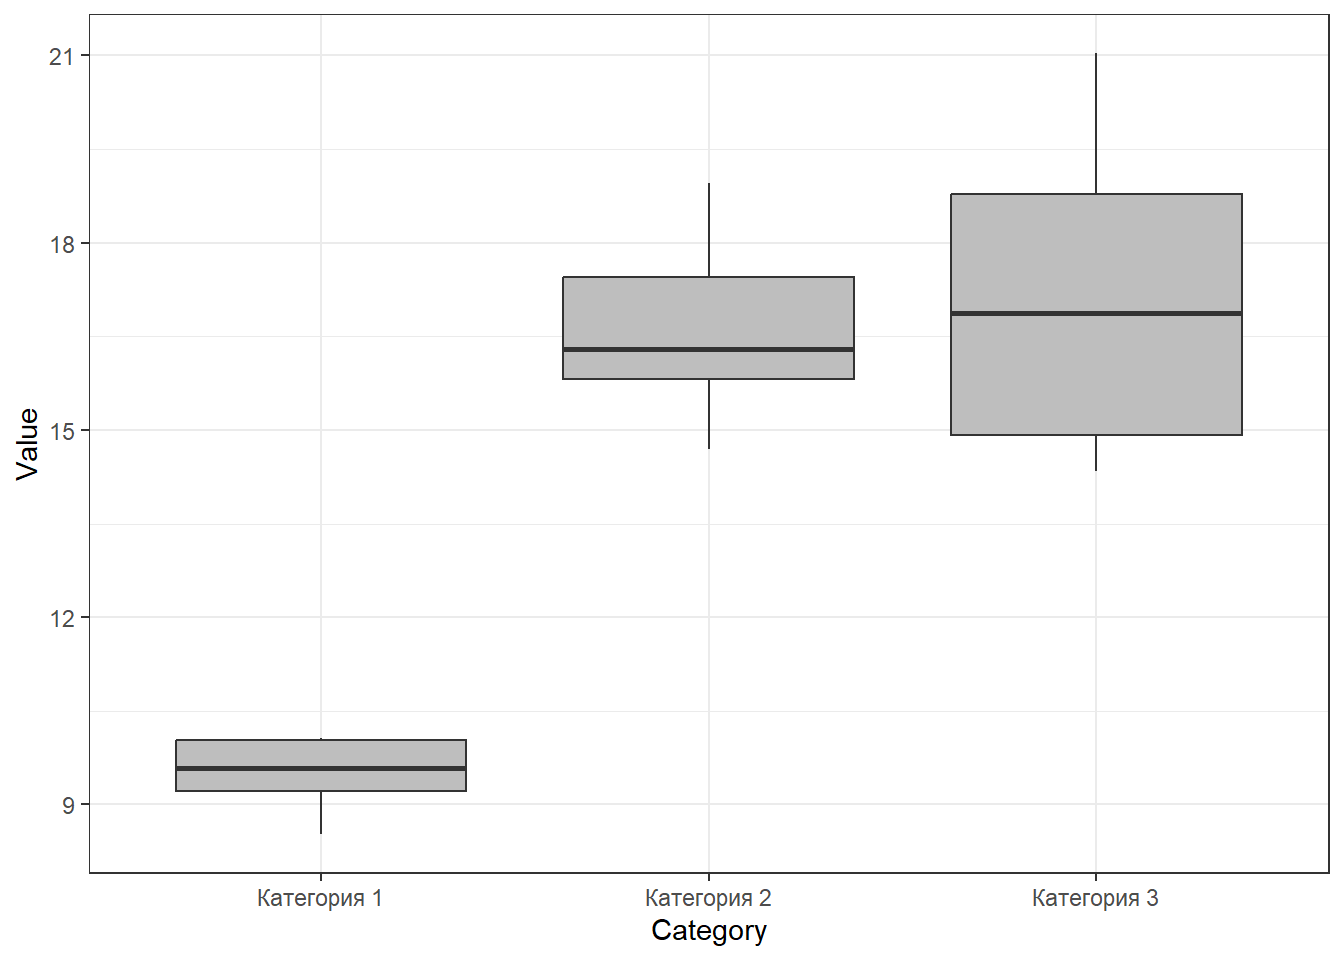
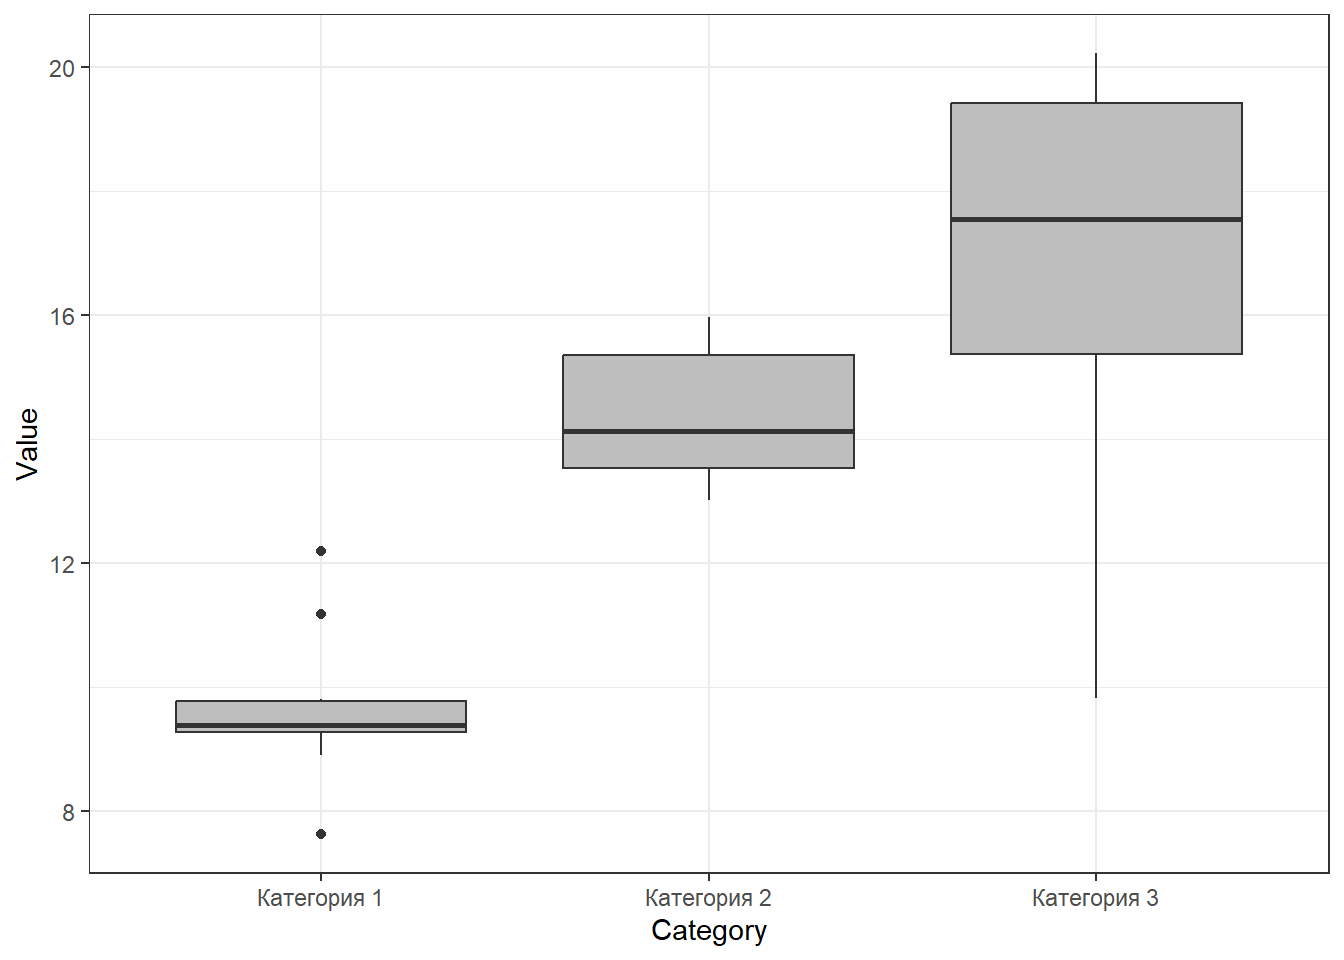
Открыл результаты ДЗ_3

diff --git a/lectures.html b/lectures.html
@@ -564,7 +564,7 @@ virginica.</p>
 набить в экселе.</p>
 <p>Для примера, решение аналогичного задания, для вида “setosa” по
 переменной <code>iris$Sepal.Width</code> будет выглядеть вот так.</p>
-<div class="tabwid"><style>.cl-8600827a{}.cl-85869b18{font-family:'Arial';font-size:11pt;font-weight:normal;font-style:normal;text-decoration:none;color:rgba(0, 0, 0, 1.00);background-color:transparent;}.cl-85b92150{margin:0;text-align:left;border-bottom: 0 solid rgba(0, 0, 0, 1.00);border-top: 0 solid rgba(0, 0, 0, 1.00);border-left: 0 solid rgba(0, 0, 0, 1.00);border-right: 0 solid rgba(0, 0, 0, 1.00);padding-bottom:5pt;padding-top:5pt;padding-left:5pt;padding-right:5pt;line-height: 1;background-color:transparent;}.cl-85b92164{margin:0;text-align:right;border-bottom: 0 solid rgba(0, 0, 0, 1.00);border-top: 0 solid rgba(0, 0, 0, 1.00);border-left: 0 solid rgba(0, 0, 0, 1.00);border-right: 0 solid rgba(0, 0, 0, 1.00);padding-bottom:5pt;padding-top:5pt;padding-left:5pt;padding-right:5pt;line-height: 1;background-color:transparent;}.cl-85baf58e{width:0.75in;background-color:transparent;vertical-align: middle;border-bottom: 1.5pt solid rgba(102, 102, 102, 1.00);border-top: 1.5pt solid rgba(102, 102, 102, 1.00);border-left: 0 solid rgba(0, 0, 0, 1.00);border-right: 0 solid rgba(0, 0, 0, 1.00);margin-bottom:0;margin-top:0;margin-left:0;margin-right:0;}.cl-85baf5a2{width:0.75in;background-color:transparent;vertical-align: middle;border-bottom: 1.5pt solid rgba(102, 102, 102, 1.00);border-top: 1.5pt solid rgba(102, 102, 102, 1.00);border-left: 0 solid rgba(0, 0, 0, 1.00);border-right: 0 solid rgba(0, 0, 0, 1.00);margin-bottom:0;margin-top:0;margin-left:0;margin-right:0;}.cl-85baf5ac{width:0.75in;background-color:transparent;vertical-align: middle;border-bottom: 0 solid rgba(0, 0, 0, 1.00);border-top: 0 solid rgba(0, 0, 0, 1.00);border-left: 0 solid rgba(0, 0, 0, 1.00);border-right: 0 solid rgba(0, 0, 0, 1.00);margin-bottom:0;margin-top:0;margin-left:0;margin-right:0;}.cl-85baf5b6{width:0.75in;background-color:transparent;vertical-align: middle;border-bottom: 0 solid rgba(0, 0, 0, 1.00);border-top: 0 solid rgba(0, 0, 0, 1.00);border-left: 0 solid rgba(0, 0, 0, 1.00);border-right: 0 solid rgba(0, 0, 0, 1.00);margin-bottom:0;margin-top:0;margin-left:0;margin-right:0;}.cl-85baf5c0{width:0.75in;background-color:transparent;vertical-align: middle;border-bottom: 1.5pt solid rgba(102, 102, 102, 1.00);border-top: 0 solid rgba(0, 0, 0, 1.00);border-left: 0 solid rgba(0, 0, 0, 1.00);border-right: 0 solid rgba(0, 0, 0, 1.00);margin-bottom:0;margin-top:0;margin-left:0;margin-right:0;}.cl-85baf5c1{width:0.75in;background-color:transparent;vertical-align: middle;border-bottom: 1.5pt solid rgba(102, 102, 102, 1.00);border-top: 0 solid rgba(0, 0, 0, 1.00);border-left: 0 solid rgba(0, 0, 0, 1.00);border-right: 0 solid rgba(0, 0, 0, 1.00);margin-bottom:0;margin-top:0;margin-left:0;margin-right:0;}</style><table data-quarto-disable-processing='true' class='cl-8600827a'><thead><tr style="overflow-wrap:break-word;"><th class="cl-85baf58e"><p class="cl-85b92150"><span class="cl-85869b18">Sepal.Width</span></p></th><th class="cl-85baf5a2"><p class="cl-85b92164"><span class="cl-85869b18">Frequency</span></p></th></tr></thead><tbody><tr style="overflow-wrap:break-word;"><td class="cl-85baf5ac"><p class="cl-85b92150"><span class="cl-85869b18">2.3</span></p></td><td class="cl-85baf5b6"><p class="cl-85b92164"><span class="cl-85869b18">1</span></p></td></tr><tr style="overflow-wrap:break-word;"><td class="cl-85baf5ac"><p class="cl-85b92150"><span class="cl-85869b18">2.9</span></p></td><td class="cl-85baf5b6"><p class="cl-85b92164"><span class="cl-85869b18">1</span></p></td></tr><tr style="overflow-wrap:break-word;"><td class="cl-85baf5ac"><p class="cl-85b92150"><span class="cl-85869b18">3</span></p></td><td class="cl-85baf5b6"><p class="cl-85b92164"><span class="cl-85869b18">6</span></p></td></tr><tr style="overflow-wrap:break-word;"><td class="cl-85baf5ac"><p class="cl-85b92150"><span class="cl-85869b18">3.1</span></p></td><td class="cl-85baf5b6"><p class="cl-85b92164"><span class="cl-85869b18">4</span></p></td></tr><tr style="overflow-wrap:break-word;"><td class="cl-85baf5ac"><p class="cl-85b92150"><span class="cl-85869b18">3.2</span></p></td><td class="cl-85baf5b6"><p class="cl-85b92164"><span class="cl-85869b18">5</span></p></td></tr><tr style="overflow-wrap:break-word;"><td class="cl-85baf5ac"><p class="cl-85b92150"><span class="cl-85869b18">3.3</span></p></td><td class="cl-85baf5b6"><p class="cl-85b92164"><span class="cl-85869b18">2</span></p></td></tr><tr style="overflow-wrap:break-word;"><td class="cl-85baf5ac"><p class="cl-85b92150"><span class="cl-85869b18">3.4</span></p></td><td class="cl-85baf5b6"><p class="cl-85b92164"><span class="cl-85869b18">9</span></p></td></tr><tr style="overflow-wrap:break-word;"><td class="cl-85baf5ac"><p class="cl-85b92150"><span class="cl-85869b18">3.5</span></p></td><td class="cl-85baf5b6"><p class="cl-85b92164"><span class="cl-85869b18">6</span></p></td></tr><tr style="overflow-wrap:break-word;"><td class="cl-85baf5ac"><p class="cl-85b92150"><span class="cl-85869b18">3.6</span></p></td><td class="cl-85baf5b6"><p class="cl-85b92164"><span class="cl-85869b18">3</span></p></td></tr><tr style="overflow-wrap:break-word;"><td class="cl-85baf5ac"><p class="cl-85b92150"><span class="cl-85869b18">3.7</span></p></td><td class="cl-85baf5b6"><p class="cl-85b92164"><span class="cl-85869b18">3</span></p></td></tr><tr style="overflow-wrap:break-word;"><td class="cl-85baf5ac"><p class="cl-85b92150"><span class="cl-85869b18">3.8</span></p></td><td class="cl-85baf5b6"><p class="cl-85b92164"><span class="cl-85869b18">4</span></p></td></tr><tr style="overflow-wrap:break-word;"><td class="cl-85baf5ac"><p class="cl-85b92150"><span class="cl-85869b18">3.9</span></p></td><td class="cl-85baf5b6"><p class="cl-85b92164"><span class="cl-85869b18">2</span></p></td></tr><tr style="overflow-wrap:break-word;"><td class="cl-85baf5ac"><p class="cl-85b92150"><span class="cl-85869b18">4</span></p></td><td class="cl-85baf5b6"><p class="cl-85b92164"><span class="cl-85869b18">1</span></p></td></tr><tr style="overflow-wrap:break-word;"><td class="cl-85baf5ac"><p class="cl-85b92150"><span class="cl-85869b18">4.1</span></p></td><td class="cl-85baf5b6"><p class="cl-85b92164"><span class="cl-85869b18">1</span></p></td></tr><tr style="overflow-wrap:break-word;"><td class="cl-85baf5ac"><p class="cl-85b92150"><span class="cl-85869b18">4.2</span></p></td><td class="cl-85baf5b6"><p class="cl-85b92164"><span class="cl-85869b18">1</span></p></td></tr><tr style="overflow-wrap:break-word;"><td class="cl-85baf5c0"><p class="cl-85b92150"><span class="cl-85869b18">4.4</span></p></td><td class="cl-85baf5c1"><p class="cl-85b92164"><span class="cl-85869b18">1</span></p></td></tr></tbody></table></div>
+<div class="tabwid"><style>.cl-00813df2{}.cl-0050aa3e{font-family:'Arial';font-size:11pt;font-weight:normal;font-style:normal;text-decoration:none;color:rgba(0, 0, 0, 1.00);background-color:transparent;}.cl-005b628a{margin:0;text-align:left;border-bottom: 0 solid rgba(0, 0, 0, 1.00);border-top: 0 solid rgba(0, 0, 0, 1.00);border-left: 0 solid rgba(0, 0, 0, 1.00);border-right: 0 solid rgba(0, 0, 0, 1.00);padding-bottom:5pt;padding-top:5pt;padding-left:5pt;padding-right:5pt;line-height: 1;background-color:transparent;}.cl-005b62bc{margin:0;text-align:right;border-bottom: 0 solid rgba(0, 0, 0, 1.00);border-top: 0 solid rgba(0, 0, 0, 1.00);border-left: 0 solid rgba(0, 0, 0, 1.00);border-right: 0 solid rgba(0, 0, 0, 1.00);padding-bottom:5pt;padding-top:5pt;padding-left:5pt;padding-right:5pt;line-height: 1;background-color:transparent;}.cl-005c0cd0{width:0.75in;background-color:transparent;vertical-align: middle;border-bottom: 1.5pt solid rgba(102, 102, 102, 1.00);border-top: 1.5pt solid rgba(102, 102, 102, 1.00);border-left: 0 solid rgba(0, 0, 0, 1.00);border-right: 0 solid rgba(0, 0, 0, 1.00);margin-bottom:0;margin-top:0;margin-left:0;margin-right:0;}.cl-005c0ce4{width:0.75in;background-color:transparent;vertical-align: middle;border-bottom: 1.5pt solid rgba(102, 102, 102, 1.00);border-top: 1.5pt solid rgba(102, 102, 102, 1.00);border-left: 0 solid rgba(0, 0, 0, 1.00);border-right: 0 solid rgba(0, 0, 0, 1.00);margin-bottom:0;margin-top:0;margin-left:0;margin-right:0;}.cl-005c0ce5{width:0.75in;background-color:transparent;vertical-align: middle;border-bottom: 0 solid rgba(0, 0, 0, 1.00);border-top: 0 solid rgba(0, 0, 0, 1.00);border-left: 0 solid rgba(0, 0, 0, 1.00);border-right: 0 solid rgba(0, 0, 0, 1.00);margin-bottom:0;margin-top:0;margin-left:0;margin-right:0;}.cl-005c0cee{width:0.75in;background-color:transparent;vertical-align: middle;border-bottom: 0 solid rgba(0, 0, 0, 1.00);border-top: 0 solid rgba(0, 0, 0, 1.00);border-left: 0 solid rgba(0, 0, 0, 1.00);border-right: 0 solid rgba(0, 0, 0, 1.00);margin-bottom:0;margin-top:0;margin-left:0;margin-right:0;}.cl-005c0cf8{width:0.75in;background-color:transparent;vertical-align: middle;border-bottom: 1.5pt solid rgba(102, 102, 102, 1.00);border-top: 0 solid rgba(0, 0, 0, 1.00);border-left: 0 solid rgba(0, 0, 0, 1.00);border-right: 0 solid rgba(0, 0, 0, 1.00);margin-bottom:0;margin-top:0;margin-left:0;margin-right:0;}.cl-005c0cf9{width:0.75in;background-color:transparent;vertical-align: middle;border-bottom: 1.5pt solid rgba(102, 102, 102, 1.00);border-top: 0 solid rgba(0, 0, 0, 1.00);border-left: 0 solid rgba(0, 0, 0, 1.00);border-right: 0 solid rgba(0, 0, 0, 1.00);margin-bottom:0;margin-top:0;margin-left:0;margin-right:0;}</style><table data-quarto-disable-processing='true' class='cl-00813df2'><thead><tr style="overflow-wrap:break-word;"><th class="cl-005c0cd0"><p class="cl-005b628a"><span class="cl-0050aa3e">Sepal.Width</span></p></th><th class="cl-005c0ce4"><p class="cl-005b62bc"><span class="cl-0050aa3e">Frequency</span></p></th></tr></thead><tbody><tr style="overflow-wrap:break-word;"><td class="cl-005c0ce5"><p class="cl-005b628a"><span class="cl-0050aa3e">2.3</span></p></td><td class="cl-005c0cee"><p class="cl-005b62bc"><span class="cl-0050aa3e">1</span></p></td></tr><tr style="overflow-wrap:break-word;"><td class="cl-005c0ce5"><p class="cl-005b628a"><span class="cl-0050aa3e">2.9</span></p></td><td class="cl-005c0cee"><p class="cl-005b62bc"><span class="cl-0050aa3e">1</span></p></td></tr><tr style="overflow-wrap:break-word;"><td class="cl-005c0ce5"><p class="cl-005b628a"><span class="cl-0050aa3e">3</span></p></td><td class="cl-005c0cee"><p class="cl-005b62bc"><span class="cl-0050aa3e">6</span></p></td></tr><tr style="overflow-wrap:break-word;"><td class="cl-005c0ce5"><p class="cl-005b628a"><span class="cl-0050aa3e">3.1</span></p></td><td class="cl-005c0cee"><p class="cl-005b62bc"><span class="cl-0050aa3e">4</span></p></td></tr><tr style="overflow-wrap:break-word;"><td class="cl-005c0ce5"><p class="cl-005b628a"><span class="cl-0050aa3e">3.2</span></p></td><td class="cl-005c0cee"><p class="cl-005b62bc"><span class="cl-0050aa3e">5</span></p></td></tr><tr style="overflow-wrap:break-word;"><td class="cl-005c0ce5"><p class="cl-005b628a"><span class="cl-0050aa3e">3.3</span></p></td><td class="cl-005c0cee"><p class="cl-005b62bc"><span class="cl-0050aa3e">2</span></p></td></tr><tr style="overflow-wrap:break-word;"><td class="cl-005c0ce5"><p class="cl-005b628a"><span class="cl-0050aa3e">3.4</span></p></td><td class="cl-005c0cee"><p class="cl-005b62bc"><span class="cl-0050aa3e">9</span></p></td></tr><tr style="overflow-wrap:break-word;"><td class="cl-005c0ce5"><p class="cl-005b628a"><span class="cl-0050aa3e">3.5</span></p></td><td class="cl-005c0cee"><p class="cl-005b62bc"><span class="cl-0050aa3e">6</span></p></td></tr><tr style="overflow-wrap:break-word;"><td class="cl-005c0ce5"><p class="cl-005b628a"><span class="cl-0050aa3e">3.6</span></p></td><td class="cl-005c0cee"><p class="cl-005b62bc"><span class="cl-0050aa3e">3</span></p></td></tr><tr style="overflow-wrap:break-word;"><td class="cl-005c0ce5"><p class="cl-005b628a"><span class="cl-0050aa3e">3.7</span></p></td><td class="cl-005c0cee"><p class="cl-005b62bc"><span class="cl-0050aa3e">3</span></p></td></tr><tr style="overflow-wrap:break-word;"><td class="cl-005c0ce5"><p class="cl-005b628a"><span class="cl-0050aa3e">3.8</span></p></td><td class="cl-005c0cee"><p class="cl-005b62bc"><span class="cl-0050aa3e">4</span></p></td></tr><tr style="overflow-wrap:break-word;"><td class="cl-005c0ce5"><p class="cl-005b628a"><span class="cl-0050aa3e">3.9</span></p></td><td class="cl-005c0cee"><p class="cl-005b62bc"><span class="cl-0050aa3e">2</span></p></td></tr><tr style="overflow-wrap:break-word;"><td class="cl-005c0ce5"><p class="cl-005b628a"><span class="cl-0050aa3e">4</span></p></td><td class="cl-005c0cee"><p class="cl-005b62bc"><span class="cl-0050aa3e">1</span></p></td></tr><tr style="overflow-wrap:break-word;"><td class="cl-005c0ce5"><p class="cl-005b628a"><span class="cl-0050aa3e">4.1</span></p></td><td class="cl-005c0cee"><p class="cl-005b62bc"><span class="cl-0050aa3e">1</span></p></td></tr><tr style="overflow-wrap:break-word;"><td class="cl-005c0ce5"><p class="cl-005b628a"><span class="cl-0050aa3e">4.2</span></p></td><td class="cl-005c0cee"><p class="cl-005b62bc"><span class="cl-0050aa3e">1</span></p></td></tr><tr style="overflow-wrap:break-word;"><td class="cl-005c0cf8"><p class="cl-005b628a"><span class="cl-0050aa3e">4.4</span></p></td><td class="cl-005c0cf9"><p class="cl-005b62bc"><span class="cl-0050aa3e">1</span></p></td></tr></tbody></table></div>
 <p><strong>Полученный датасет необходимо сохранить в формате
 .csv</strong>.</p>
 <p><br> <br></p>
@@ -704,14 +704,14 @@ class="section level1">
 <!-- ``` -->
 <!-- Раз уж у нас на лекции появилась тема с мирами Дж.Р.Р.Толкиена, то вот вам ДЗ про это. Представьте себе, что вы идете по лесам Средиземья с отрядом эльфов. Все участники похода были независимо и случайно отобраны из числа этого народа. И вдруг, вдалеке, вы заметили отряд неких существ. Вам необходимо принять решение о том, свои это или чужие. Вы (с помощью магии, наверное) смогли как-то измерить рост фигур из этого отряда. Сделайте обоснованный вывод на основе данных, которые у вас имеются. Результаты необходимо описать в виде текста (комментарии в скрипте с решением, в котором надо сформулировать нулевую и альтернативную гипотезы и сделать выбор между ними) и визуализировать в виде столбчатой диаграммы (необходимо написать код, который ее построит).  -->
 <!-- **Вариант 1.** -->
-<!-- Рост эльфов из вашего отряда (см):  178, 179, 186, 176, 183, 181, 172, 185, 181, 187, 180, 184, 181, 184, 182  -->
-<!-- Рост фигур (см): 169, 162, 161, 166, 165, 164, 168 -->
+<!-- Рост эльфов из вашего отряда (см):  180, 172, 185, 190, 188, 182, 180, 184, 181, 187, 187, 192, 174, 182, 180  -->
+<!-- Рост фигур (см): 164, 165, 169, 166, 169, 157, 167, 157, 174, 168, 164, 155, 164, 172, 175, 172, 167 -->
 <!-- **Вариант 2.** -->
-<!-- Рост эльфов из вашего отряда (см):  175, 172, 191, 178, 183, 178, 182, 177, 185, 179, 184, 173, 174, 188, 183 -->
-<!-- Рост фигур (см): 194, 189, 183, 192, 196, 180, 187, 200 -->
+<!-- Рост эльфов из вашего отряда (см):  176, 182, 183, 172, 186, 183, 185, 178, 180, 177, 179, 181, 179, 181, 178 -->
+<!-- Рост фигур (см): 191, 189, 186, 193, 188 -->
 <!-- **Вариант 3.** -->
-<!-- Рост эльфов из вашего отряда (см):  181, 181, 186, 179, 180, 174, 181, 177, 181, 184, 182, 181, 174, 182, 170 -->
-<!-- Рост фигур (см): 151, 147, 155, 141, 139, 150, 149, 153, 146, 148, 162, 145, 161, 149, 161 -->
+<!-- Рост эльфов из вашего отряда (см):  175, 178, 174, 179, 183, 181, 183, 172, 177, 175, 176, 183, 181, 180, 181 -->
+<!-- Рост фигур (см): 146, 141, 148, 157, 150, 142, 145, 157 -->
 </div>
 <div id="однофакторный-дисперсионный-анализ" class="section level1">
 <h1>6. Однофакторный дисперсионный анализ</h1>
@@ -772,19 +772,21 @@ class="section level1">
 </div>
 <div id="оценки-за-домашние-работы" class="section level1">
 <h1>Оценки за домашние работы</h1>
-<table style="width:100%;">
+<table>
 <colgroup>
-<col width="36%" />
-<col width="21%" />
-<col width="21%" />
-<col width="19%" />
+<col width="30%" />
+<col width="18%" />
+<col width="18%" />
+<col width="16%" />
+<col width="16%" />
 </colgroup>
 <thead>
 <tr class="header">
 <th align="left">Name</th>
 <th align="right">ДЗ 1 % от максимума</th>
 <th align="right">ДЗ 2 % от максимума</th>
-<th align="right">Варианты для ДЗ_3</th>
+<th align="left">Варианты для ДЗ_3</th>
+<th align="right">Варианты для ДЗ_4</th>
 </tr>
 </thead>
 <tbody>
@@ -792,48 +794,56 @@ class="section level1">
 <td align="left">Василькова Софья Владимировна</td>
 <td align="right">NA</td>
 <td align="right">NA</td>
+<td align="left">NA</td>
 <td align="right">1</td>
 </tr>
 <tr class="even">
 <td align="left">Демиденко Елизавета Романовна</td>
 <td align="right">100</td>
 <td align="right">100</td>
+<td align="left">NA</td>
 <td align="right">1</td>
 </tr>
 <tr class="odd">
 <td align="left">Колесникова Анастасия Алексеевна</td>
 <td align="right">NA</td>
 <td align="right">NA</td>
-<td align="right">2</td>
+<td align="left">NA</td>
+<td align="right">1</td>
 </tr>
 <tr class="even">
 <td align="left">Малина Лада Николаевна</td>
 <td align="right">100</td>
 <td align="right">100</td>
+<td align="left">NA</td>
 <td align="right">2</td>
 </tr>
 <tr class="odd">
 <td align="left">Мирошниченко Сандра Алексеевна</td>
 <td align="right">100</td>
 <td align="right">100</td>
+<td align="left">NA</td>
 <td align="right">2</td>
 </tr>
 <tr class="even">
 <td align="left">Низовцева Милана Владимировна</td>
 <td align="right">100</td>
 <td align="right">100</td>
+<td align="left">NA</td>
 <td align="right">3</td>
 </tr>
 <tr class="odd">
 <td align="left">Паулюкайтис Максим Гинтарасович</td>
 <td align="right">NA</td>
 <td align="right">NA</td>
+<td align="left">NA</td>
 <td align="right">3</td>
 </tr>
 <tr class="even">
 <td align="left">Толкачев Данила Владимирович</td>
 <td align="right">60</td>
 <td align="right">NA</td>
+<td align="left">NA</td>
 <td align="right">3</td>
 </tr>
 </tbody>
